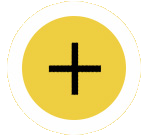
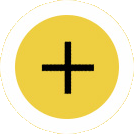
erabiltzaile/ipuin berriak gehitzeko botoia animatu pixkat

diff --git a/www/js/controllers/modals/erabiltzailea_datuak.controller.js b/www/js/controllers/modals/erabiltzailea_datuak.controller.js
@@ -21,7 +21,7 @@ app.controller('ModalErabiltzaileaDatuakCtrl',['$q', '$scope', '$uibModalInstanc
         $scope.eremuak.izena = erabiltzailea[0].izena;
         $scope.eremuak.argazkia = jatorrizko_argazkia = erabiltzailea[0].argazkia;
         
-        if (erabiltzailea[0].argazkia.trim () != '')
+        if (erabiltzailea[0].argazkia.trim () !== '')
           $scope.argazkia_fullPath = cordova.file.dataDirectory + erabiltzailea[0].argazkia;
           
         $scope.ezabatu_button = true;
@@ -47,7 +47,7 @@ app.controller('ModalErabiltzaileaDatuakCtrl',['$q', '$scope', '$uibModalInstanc
         if (emaitza.length === 0){
           
           // Comprobamos si ha cambiado la imagen para borrar la anterior
-          if ($scope.eremuak.argazkia.trim () != '' && jatorrizko_argazkia.trim () != '' && $scope.eremuak.argazkia != jatorrizko_argazkia)
+          if ($scope.eremuak.argazkia.trim () !== '' && jatorrizko_argazkia.trim () !== '' && $scope.eremuak.argazkia != jatorrizko_argazkia)
             remove_argazkia (jatorrizko_argazkia);
           
           // Guardamos los datos en la base de datos (insertar/modificar)
@@ -112,10 +112,10 @@ app.controller('ModalErabiltzaileaDatuakCtrl',['$q', '$scope', '$uibModalInstanc
           });
           
           // Borramos la imagen del erabiltzaile (puede que haya dos en este mismo momento)
-          if ($scope.eremuak.argazkia.trim () != '')
+          if ($scope.eremuak.argazkia.trim () !== '')
             remove_argazkia ($scope.eremuak.argazkia);
             
-          if ($scope.eremuak.argazkia != jatorrizko_argazkia && jatorrizko_argazkia.trim () != '')
+          if ($scope.eremuak.argazkia != jatorrizko_argazkia && jatorrizko_argazkia.trim () !== '')
             remove_argazkia (jatorrizko_argazkia);
           
           // Borramos los datos del erabiltzaile
@@ -141,7 +141,7 @@ app.controller('ModalErabiltzaileaDatuakCtrl',['$q', '$scope', '$uibModalInstanc
   
   $scope.itxi = function () {
     
-    if ($scope.eremuak.argazkia.trim () != '' && $scope.eremuak.argazkia != jatorrizko_argazkia)
+    if ($scope.eremuak.argazkia.trim () !== '' && $scope.eremuak.argazkia != jatorrizko_argazkia)
       remove_argazkia ($scope.eremuak.argazkia);
     
     //$uibModalInstance.dismiss ('itxi');
@@ -155,16 +155,16 @@ app.controller('ModalErabiltzaileaDatuakCtrl',['$q', '$scope', '$uibModalInstanc
       destinationType: Camera.DestinationType.FILE_URI,
       sourceType: Camera.PictureSourceType.CAMERA,
       allowEdit: true,
-      encodingType: Camera.EncodingType.JPEG,     
-      saveToPhotoAlbum: false,
-      correctOrientation:true
+      encodingType: Camera.EncodingType.JPEG,
+      saveToPhotoAlbum: true,
+      correctOrientation: true
     };
     
     Kamera.getPicture (options).then (function (irudia){
       
       Files.saveFile (irudia).then (function (irudia){
         
-        if ($scope.eremuak.argazkia.trim () != '' && $scope.eremuak.argazkia != jatorrizko_argazkia)
+        if ($scope.eremuak.argazkia.trim () !== '' && $scope.eremuak.argazkia != jatorrizko_argazkia)
           remove_argazkia ($scope.eremuak.argazkia);
         
         $scope.eremuak.argazkia = irudia;
@@ -188,7 +188,7 @@ app.controller('ModalErabiltzaileaDatuakCtrl',['$q', '$scope', '$uibModalInstanc
         
         remove_argazkia ($scope.eremuak.argazkia).then (function (){
           
-          if ($scope.eremuak.argazkia != jatorrizko_argazkia && jatorrizko_argazkia.trim () != ''){
+          if ($scope.eremuak.argazkia != jatorrizko_argazkia && jatorrizko_argazkia.trim () !== ''){
             $scope.eremuak.argazkia = jatorrizko_argazkia;
             
             $scope.argazkia_fullPath = cordova.file.dataDirectory + jatorrizko_argazkia;

diff --git a/www/index.html b/www/index.html
@@ -15,6 +15,7 @@
     <!-- endbuild -->
     <!-- build:css(.tmp) styles/main.css -->
     <link rel="stylesheet" href="css/main.css">
+    <link rel="stylesheet" href="css/animazioak.css">
     <link rel="stylesheet" href="css/speech_bubbles.css">
     <link rel="stylesheet" href="lib/bootstrap/dist/css/bootstrap.css">
     <link rel="stylesheet" href="lib/angular-wizard/dist/angular-wizard.min.css">

diff --git a/www/css/animazioak.css b/www/css/animazioak.css
@@ -1,0 +1,14 @@
+@keyframes torloju {
+  
+  25%,100% {
+    -ms-transform: scale(1, 1) rotate(0deg);
+    -webkit-transform: scale(1, 1) rotate(0deg);
+    transform: scale(1, 1) rotate(0deg);
+  }
+  90% {
+    -ms-transform: scale(0.5, 0.5) rotate(360deg);
+    -webkit-transform: scale(0.5, 0.5) rotate(360deg);
+    transform: scale(0.5, 0.5) rotate(360deg);
+  }
+  
+}

diff --git a/www/css/main.css b/www/css/main.css
@@ -125,6 +125,7 @@ body {
   width: auto;
   height: 50px;
   margin: 60px auto 20px auto;
+  animation: torloju 4s linear 0s infinite;
 }
 
 #menua-kutxa #berria a,
